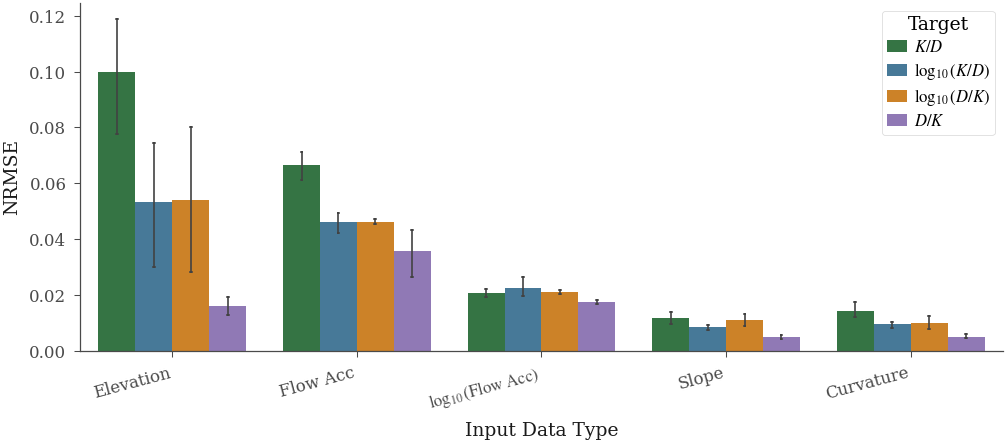
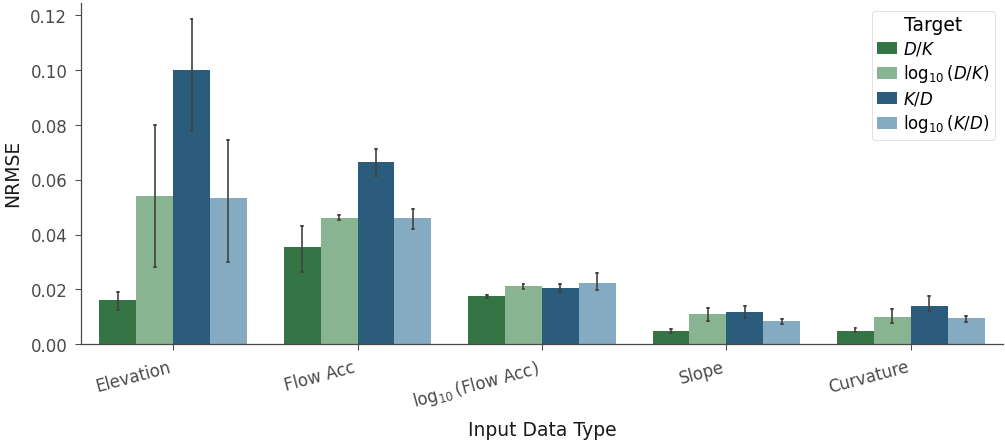
Switch to sans-serif font; use sequential paired palette in perf_compare
- plot_styles.py: font.family → sans-serif (Helvetica Neue / Arial),
  mathtext.fontset → dejavusans
- perf_compare.org: replace default PALETTE[:4] with single-hue sequential
  pairs (dark/light green for D/K family, dark/light blue for K/D family);
  add explicit hue_order so pairs are always adjacent
- render_figures.py: same palette/hue_order update
- plots/preview_pngs/: updated PNGs reflecting both changes

diff --git a/notebooks/org/plots/render_figures.py b/notebooks/org/plots/render_figures.py
@@ -120,12 +120,21 @@ def render_perf_compare():
     perf_metrics_df["target"] = perf_metrics_df["target"].map(target_names)
     perf_metrics_df["data"]   = perf_metrics_df["data"].map(data_names)
 
+    hue_order = ["$D/K$", r"$\log_{10}(D/K)$", "$K/D$", r"$\log_{10}(K/D)$"]
+    palette   = [
+        plot_styles.COLORS["green_dark"],  # D/K      — dark green
+        "#82bb8e",                         # log(D/K) — light green
+        "#1d5f8a",                         # K/D      — dark blue
+        "#7aadcc",                         # log(K/D) — light blue
+    ]
+
     def plot_perf_comp(ax):
         sns.barplot(
             data=perf_metrics_df,
             x="data", y="nrmse", hue="target",
+            hue_order=hue_order,
             ax=ax,
-            palette=plot_styles.PALETTE[:4],
+            palette=palette,
             edgecolor="none",
             capsize=0.04,
             err_kws={"linewidth": 0.8},

diff --git a/src/neural_spd/plot_styles.py b/src/neural_spd/plot_styles.py
@@ -82,10 +82,10 @@ _rcparams = {
     "figure.constrained_layout.use": True,
 
     # --- Font ---
-    "font.family":           "serif",
-    "font.serif":            ["Times New Roman", "DejaVu Serif", "serif"],
+    "font.family":           "sans-serif",
+    "font.sans-serif":       ["Helvetica Neue", "Arial", "DejaVu Sans"],
     "font.size":             8,
-    "mathtext.fontset":      "stix",  # consistent with Times New Roman
+    "mathtext.fontset":      "dejavusans",  # consistent with sans-serif body
 
     # --- Axes ---
     "axes.facecolor":        COLORS["white"],
